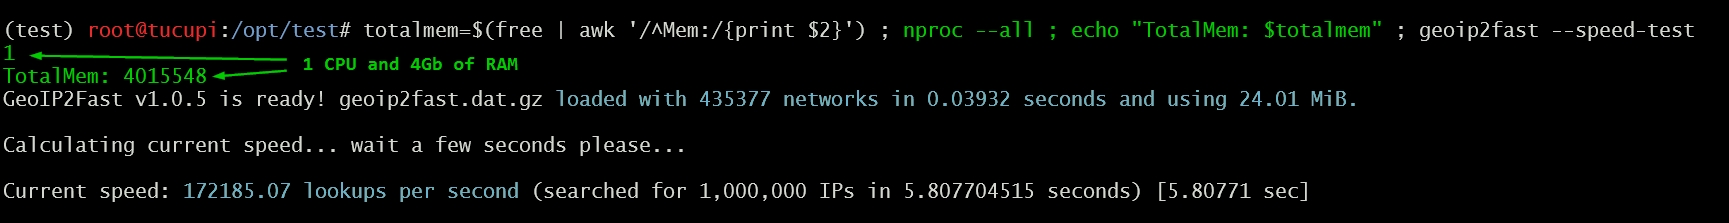
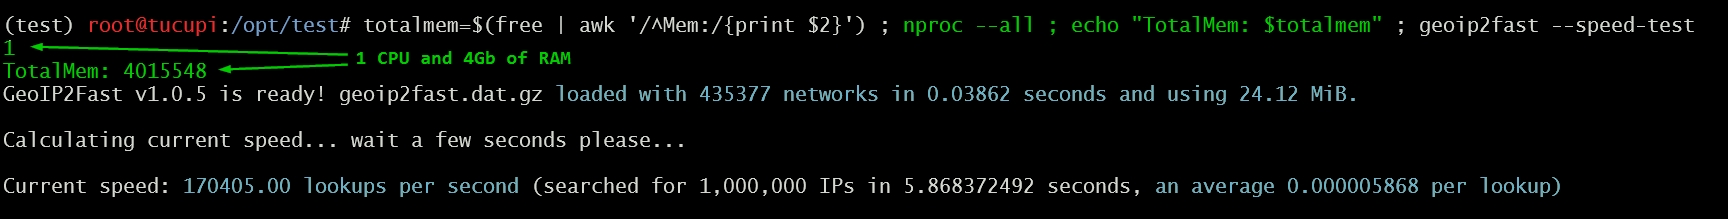
updated speed_test.jpg

Changed region(s): [[0.0, 0.0548, 1.0, 0.4932], [0.0, 0.7945, 0.9062, 0.9041], [0.0, 0.6027, 0.4062, 0.6849]]

diff --git a/README.md b/README.md
@@ -187,6 +187,8 @@ resolver1.telesp.net.br
 
 With an virtual machine with 1 CPU and 4Gb of RAM, we have lookups **lower than 0,00003 seconds**. And if the lookup still in library´s internal cache, the elapsed time goes down to 0,000003 seconds. **GeoIP2Fast can do more than 100K queries per second, per core**. It takes less than 0,07 seconds to load the datafile into memory and get ready to lookup. Use ```verbose=True``` to create the object GeoIP2Fast to see the spent time to start.
 
+![](https://raw.githubusercontent.com/rabuchaim/geoip2fast/main/images/speed_test.jpg)
+
 Now some tests are included in the geoip2fast.py file. 
 
 ```bash
